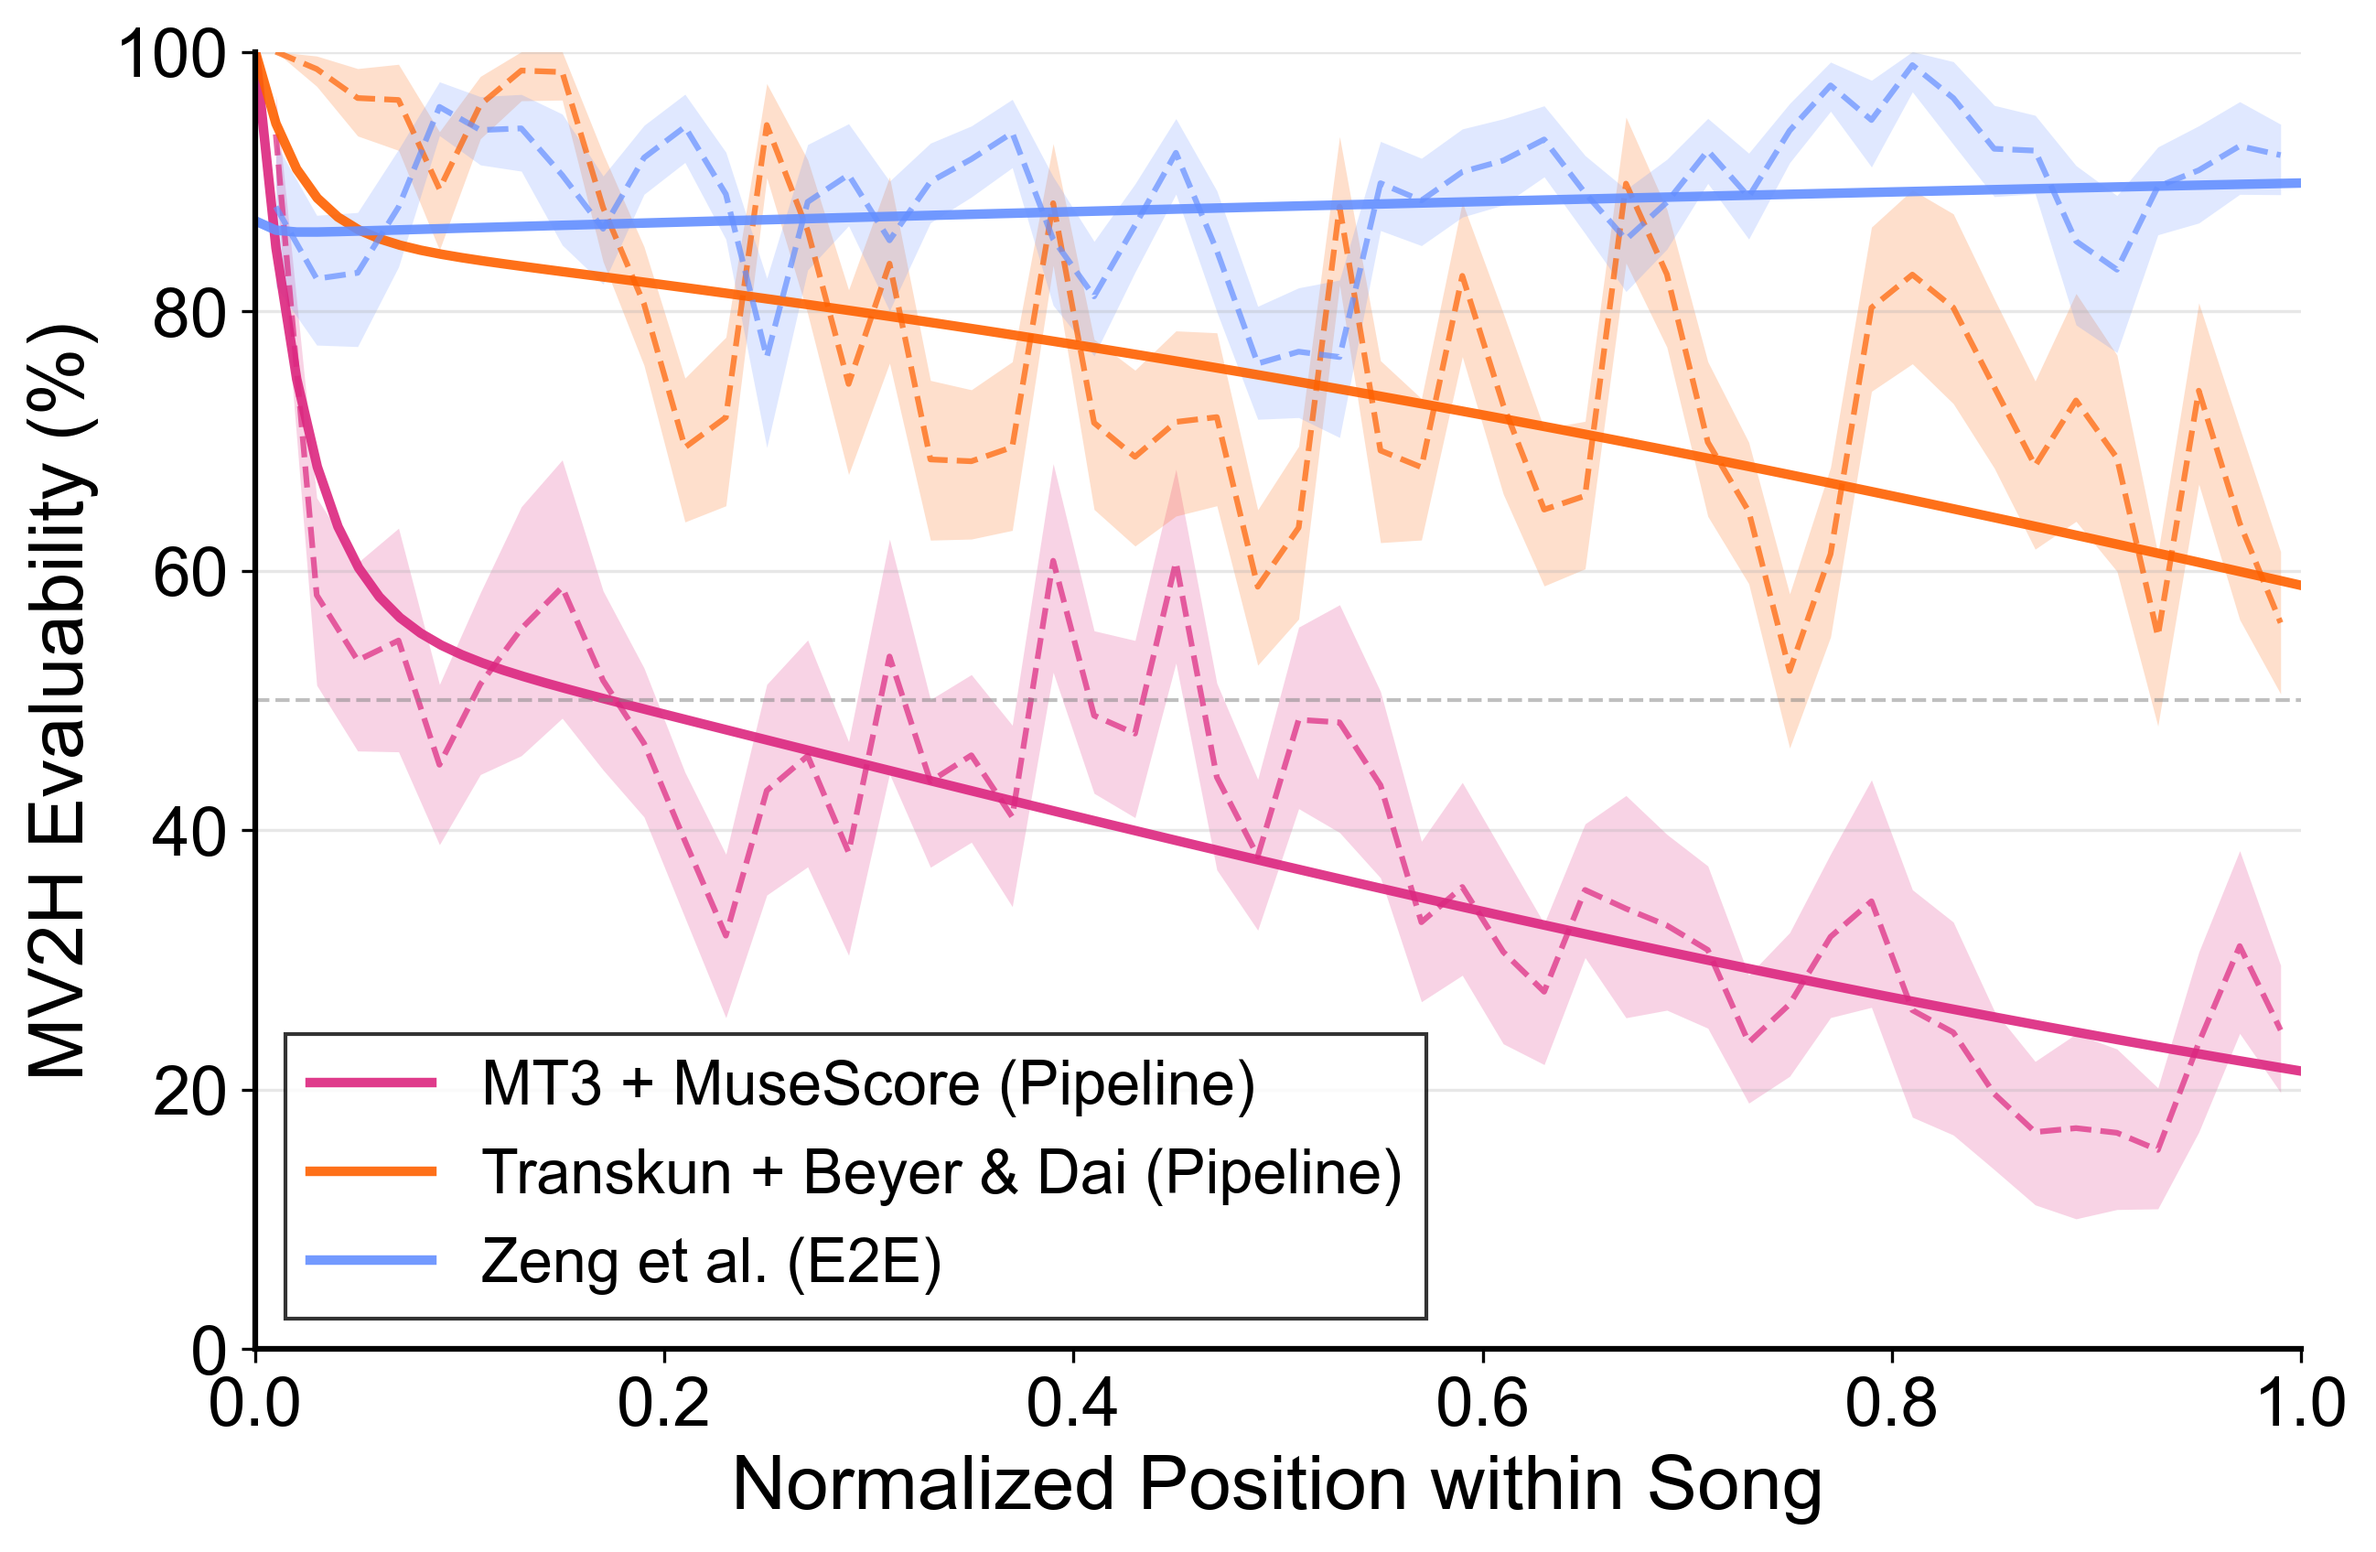
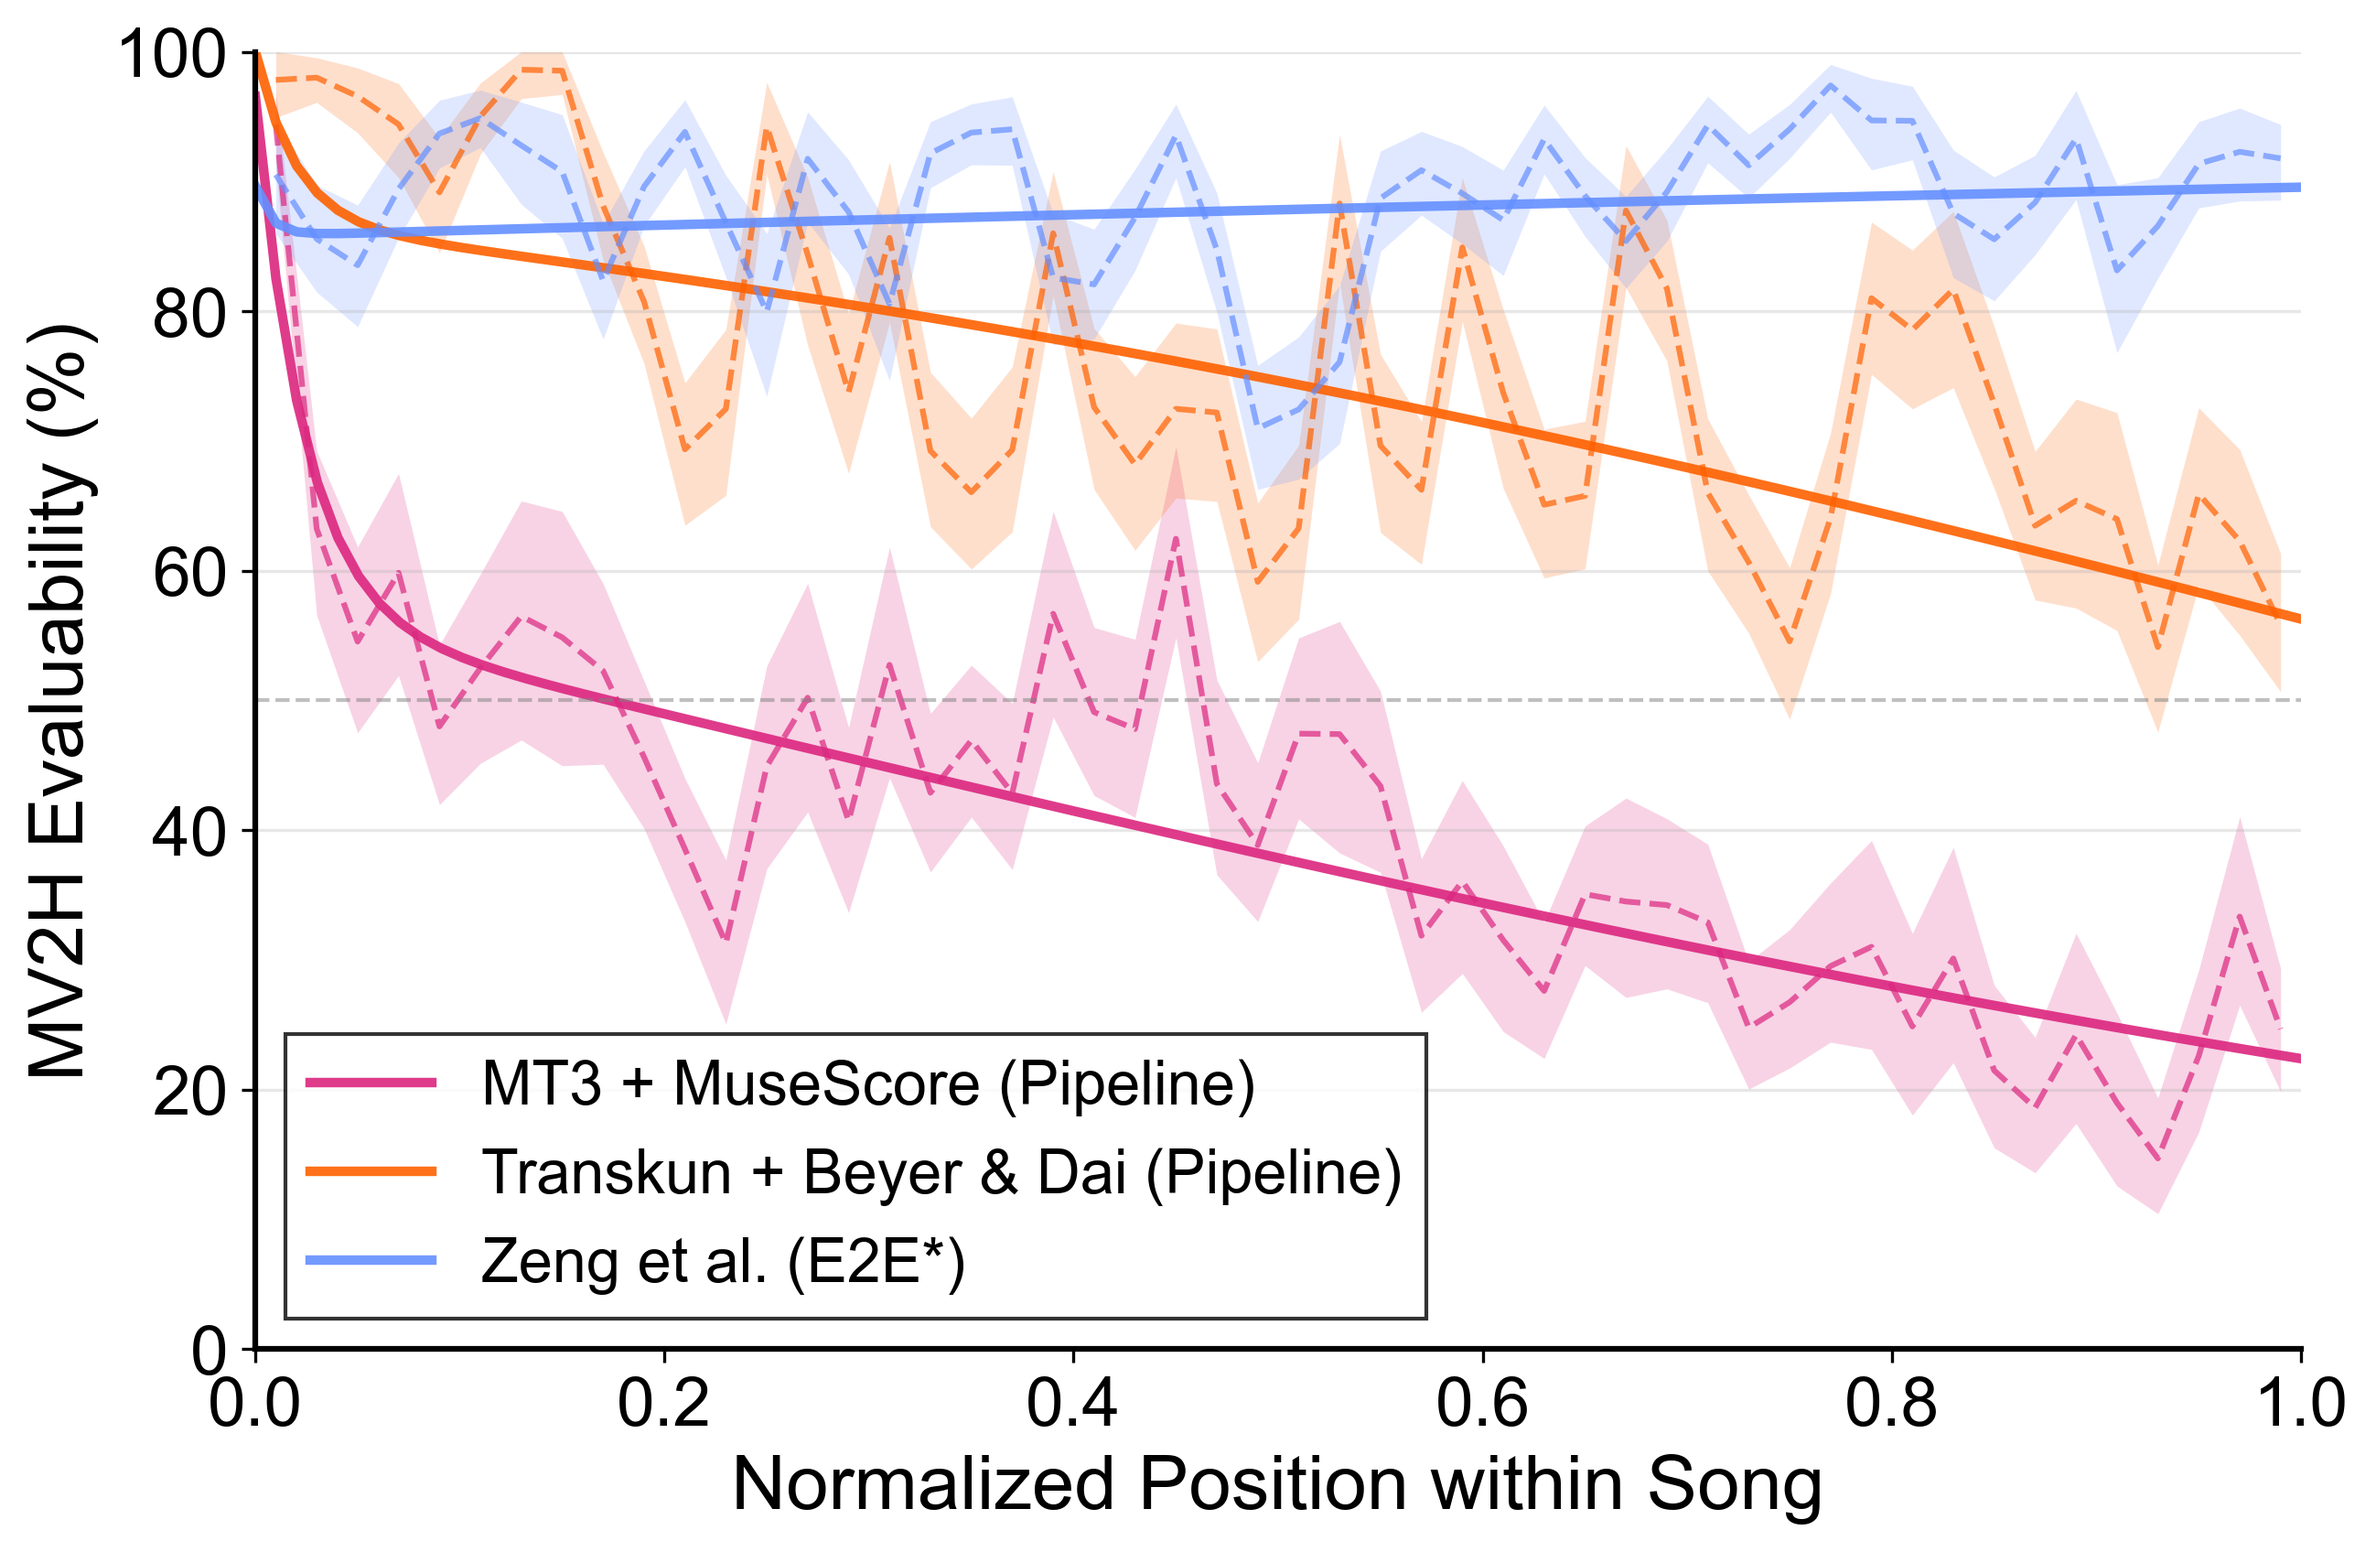
Update mv2h results with correct reproduction

diff --git a/src/analysis/analyze_mv2h_results.py b/src/analysis/analyze_mv2h_results.py
@@ -674,7 +674,7 @@ def plot_success_rate_by_position(
     styles = {
         "MT3 + MuseScore": {"color": "#DC267F", "label": "MT3 + MuseScore (Pipeline)"},
         "Transkun + Beyer": {"color": "#FE6100", "label": "Transkun + Beyer & Dai (Pipeline)"},
-        "Zeng (E2E)": {"color": "#648FFF", "label": "Zeng et al. (E2E)"},
+        "Zeng (E2E)": {"color": "#648FFF", "label": "Zeng et al. (E2E*)"},
     }
 
     for name, csv_path in csv_paths.items():
